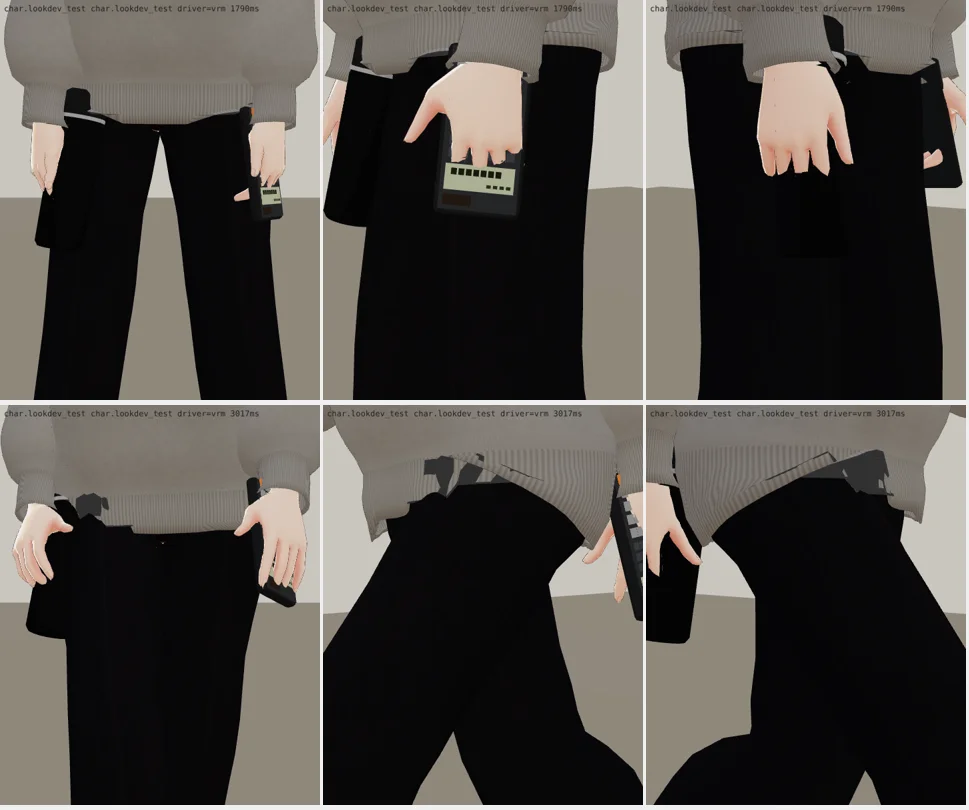
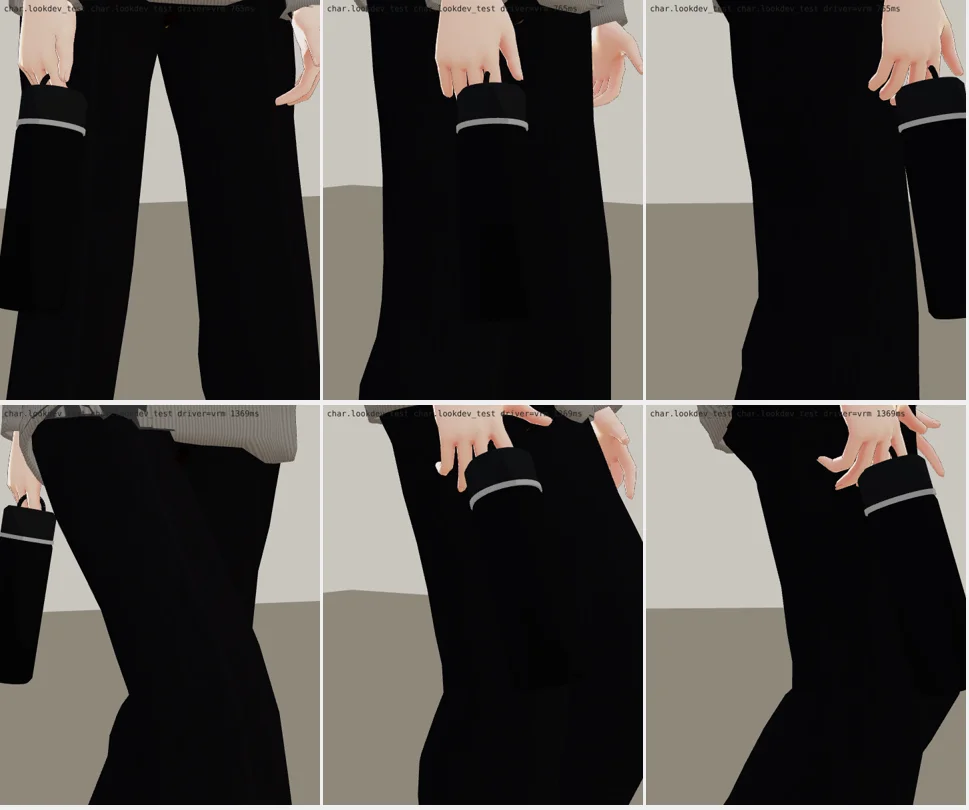
品妤的保溫瓶第二版（BB-C ed0d36bc）：平常只拿保溫瓶、改成手指勾提環垂在手下（銀環和瓶蓋露出來；試過握上半段往前斜，被寬袖口蓋住）；重拍 props_hands、props_look
Claude-Session: https://claude.ai/code/session_015BuNi47yLUt5PviELapMNj

diff --git a/docs/art-rebuild/second_ai/patches/props_pinyu.js b/docs/art-rebuild/second_ai/patches/props_pinyu.js
@@ -9,14 +9,15 @@
   const add=(key,url,src)=>{ if(typeof ASSETS!=='undefined'&&!ASSETS.manifest[key]) ASSETS.manifest[key]={url, type:'building', lazy:true, source:src, license:'本作'}; };
   add('prop.calc_engineering','assets/models/char/second_ai/calc_engineering.glb','本作 Blender 腳本 tools/blender/char_second/prop_pinyu.py（LAWWW2-C：品妤的工程計算機——深灰機身、液晶、按鍵；沒有牌子、型號）');
   add('prop.thermos_black','assets/models/char/second_ai/thermos_black.glb','本作 Blender 腳本 tools/blender/char_second/prop_pinyu.py（LAWWW2-C：品妤的黑色保溫瓶——霧黑瓶身、瓶蓋、提環；沒有牌子）');
-  function glbProp(key,name,PALM,SIDE,rot){ return function(o){ const g=new THREE.Group(); g.name=name;
+  function glbProp(key,name,PALM,SIDE,rot,tilt){ return function(o){ const g=new THREE.Group(); g.name=name;
     if(typeof ASSETS!=='undefined') ASSETS.loadOne(key).then(c=>{ if(!c||!c.scene) return; const n=c.scene.clone(true);
       const arm=g.parent, hand=arm&&arm.children.find(b=>/Hand$/i.test(b.name));   // 前臂骨頭底下的手
-      if(hand){ const d=hand.position.clone().normalize(); g.position.copy(hand.position).addScaledVector(d,PALM); g.position.y+=SIDE; if(rot) n.rotation.set(rot[0],rot[1],rot[2]*Math.sign(d.x||1)); }
+      if(hand){ const d=hand.position.clone().normalize(); g.position.copy(hand.position).addScaledVector(d,PALM); g.position.y+=SIDE; if(rot) n.rotation.set(rot[0],rot[1],rot[2]*Math.sign(d.x||1)); if(tilt) g.rotation.set(tilt[0],tilt[1]*Math.sign(d.x||1),tilt[2]); }   // tilt：繞手掌轉（往前斜）
       n.traverse(m=>{ if(!m.isMesh) return; const s=m.material; m.material=new THREE.MeshToonMaterial({color:s.color.clone(), vertexColors:!!s.vertexColors}); m.castShadow=true; m.frustumCulled=false; });   // 和人物一樣的卡通明暗
       g.add(n); }).catch(e=>console.warn(name+' glb',e));
     return g; }; }
   // 計算機：長邊（模型的 z）沿著前臂（轉 90°）、螢幕朝外；保溫瓶：瓶身（模型的 y）沿著前臂、瓶蓋朝手肘（往上）
   PROPS.DEF.calc={bone:'leftLowerArm', make:glbProp('prop.calc_engineering','calc_engineering',0.055,-0.024,[0,Math.PI/2,0])};
-  PROPS.DEF.thermos={bone:'rightLowerArm', make:glbProp('prop.thermos_black','thermos_black',0.06,-0.05,[0,0,Math.PI/2])};
+  // 保溫瓶：提環勾在手指上（待機時手指往掌心彎，沿前臂方向離手腕約 8 cm），瓶身中心再往下 13 cm（提環頂到瓶身中心）；瓶蓋朝上
+  PROPS.DEF.thermos={bone:'rightLowerArm', make:glbProp('prop.thermos_black','thermos_black',0.21,-0.022,[0,0,Math.PI/2])};
 })();

diff --git a/docs/art-rebuild/second_ai/char_review/pinyu/README.md b/docs/art-rebuild/second_ai/char_review/pinyu/README.md
@@ -1,13 +1,22 @@
-# 隨身物：工程計算機、黑色保溫瓶（BB_131「手上常拿」；LAWWW2-C 2026-10-17 19:5x UTC；等 BB-C 驗收，D59）
+# 隨身物：工程計算機、黑色保溫瓶（BB_131「手上常拿」；LAWWW2-C 2026-10-17；第二版 20:2x UTC；等 BB-C 驗收，D59）
 - 模型（`tools/blender/char_second/prop_pinyu.py`）：
   - `assets/models/char/second_ai/calc_engineering.glb`：工程計算機 16×8×1.6 cm、660 個三角形；深灰機身、液晶（兩行數字的小塊）、太陽能板；上三排小的功能鍵、下五排數字鍵，一顆橘色運算鍵；**沒有牌子、型號**。
   - `assets/models/char/second_ai/thermos_black.glb`：黑色保溫瓶 直徑 7 cm、高 22 cm、810 個三角形；霧黑瓶身、銀色細環、亮一點的瓶蓋＋提環；沒有牌子。
-- 拿法：計算機貼著左手掌、保溫瓶右手直握（瓶蓋朝上）。兩個都**掛在前臂**（不是手）：掛在手上時走路動畫手腕一轉，東西就轉成水平（家豪筆記本 BB-C 退件的原因，同一個做法一起改）。兩個可以同時拿，也可以只拿一個。
-- 接進遊戲（LAWWW-C）：`docs/art-rebuild/second_ai/patches/props_pinyu.js`（`PROPS.DEF.calc`、`PROPS.DEF.thermos`＋manifest）；`CHARACTERS.econ_pinyu.char3d.props` 加 `'calc'`、`'thermos'`。
+- 接進遊戲（LAWWW-C）：`docs/art-rebuild/second_ai/patches/props_pinyu.js`（`PROPS.DEF.calc`、`PROPS.DEF.thermos`＋manifest）。
+
+## 第二版：照 BB-C 驗收（BB_201 §14，ed0d36bc）改的
+| BB-C 的意見 | 改法 |
+|---|---|
+| ① 平常只拿保溫瓶（兩手都拿像要去考試）；計算機給上課、讀書、考試的事件 | patch 的說明改成平常 `props` 只放 `'thermos'`；計算機的配件照留，事件裡再加 |
+| ② 保溫瓶貼著黑褲子看不到：(a) 握上半段往前斜，或 (b) 手指勾提環垂在手下 | **選 (b)**：提環勾在手指上、瓶子垂在手下面，銀環和瓶蓋露出來。(a) 試過：寬袖口蓋住手腕，銀環和瓶蓋還是被蓋住；遊戲的手是放鬆張開的，勾提環比握瓶身自然 |
+| ③ 袖子應該蓋到手背（這版停在手腕） | 人物模型的事，下次送驗收時一起改（還沒改） |
+
+- 兩件都**掛在前臂**（不是手）：掛在手上時走路動畫手腕一轉，東西就轉成水平（家豪筆記本退件的原因）。位置在載入時照前臂到手的距離算。
 - Blender 預覽：![](props_blender.webp)
-- 遊戲渲染器（test_charlook，第五版 VRM＋上面的 patch；正面、45°、側面）：![](props_look.webp)
-- 手的特寫（上排待機、下排走路；左到右：正前、左手外側（計算機）、右手外側（保溫瓶））：![](props_hands.webp)
-- 還沒做到的：黑色保溫瓶貼著黑褲子不明顯（設定就是黑色）；寬袖子蓋到手背，握的位置要在遊戲裡再對一次。
+- 遊戲渲染器（只拿保溫瓶；上排待機、下排走路；正面、45°、側面）：![](props_look.webp)
+- 右手特寫（上排待機、下排走路；正前、斜前外側、側面）：![](props_hands.webp)
+- 第一版（兩件都拿、保溫瓶握在手裡貼著褲子）：![](props_hands_v1.webp)
+- 還沒做到的：袖子蓋到手背（人物模型）；計算機在事件裡的位置（桌上或手上）要等事件。
 
 ---
 
